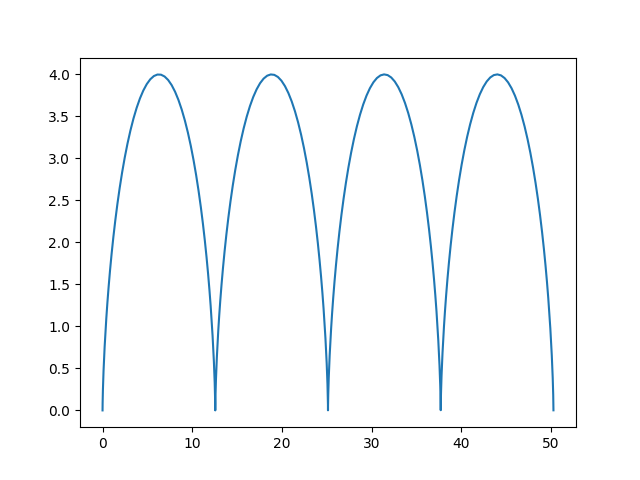
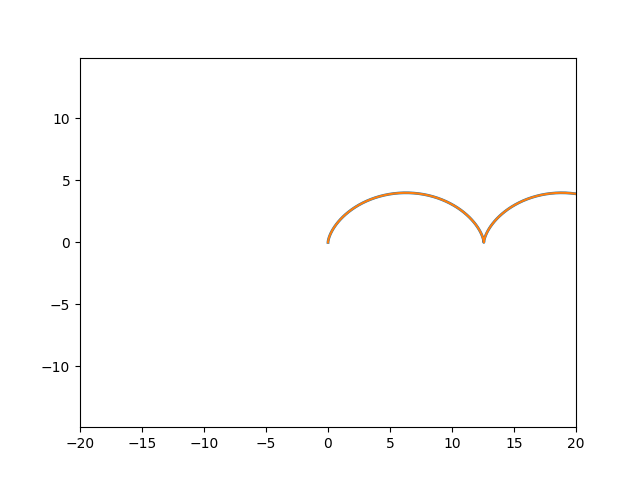
pip

diff --git a/lab_2_1.py b/lab_2_1.py
@@ -1,0 +1,40 @@
+import numpy as np
+import matplotlib.pyplot as plt
+from matplotlib.animation import FuncAnimation
+
+fig, ax = plt.subplots()
+
+rt, = plt.plot([], [], '-', lw=2)
+xdata, ydata = [], []
+ball, = plt.plot([], [], '-', color='r')
+
+edge = 50
+plt.axis('equal')
+ax.set_xlim(-edge, edge)
+ax.set_ylim(-edge, edge)
+
+def cicle(t):
+    R=2
+    xdata.append(R*(t-np.sin(t)))
+    ydata.append(R*(1-np.cos(t)))
+    return xdata, ydata
+
+
+ 
+def circle_move(R,vx0 ,time):
+    x0 = vx0 * time
+    alpha = np.arange(0, 2*np.pi, 0.1)
+    x = x0 + R*np.cos(alpha)
+    y = R + R*np.sin(alpha)
+    return x, y
+
+
+def animate(i):
+    ball.set_data(circle_move(R=2, vx0=2 , time=i))
+    rt.set_data(cicle(t=i))
+    
+ani = FuncAnimation(fig, animate, frames=np.arange(0, 8*np.pi, 0.1), interval=20) 
+
+ani.save('lpop.gif')
+
+

diff --git a/rtt.py b/rtt.py
@@ -1,0 +1,37 @@
+import numpy as np
+import matplotlib.pyplot as plt
+from matplotlib.animation import FuncAnimation
+
+fig, ax = plt.subplots()
+
+rt, = plt.plot([], [], '-', lw=2)
+xdata, ydata = [], []
+ball, = plt.plot([], [], '-', color='r')
+
+edge = 40
+plt.axis('equal')
+ax.set_xlim(-edge, edge)
+ax.set_ylim(-edge, edge)
+
+def astr(R,t):
+    xdata.append(R*np.cos(t)**3)
+    ydata.append(R*np.sin(t)**3)
+    return xdata, ydata
+
+
+def circle_move(R,t):
+    x0 = 16*np.cos(t)**3
+    y0 = 16*np.sin(t)**3
+    alpha = np.arange(0, 2*np.pi, 0.1)
+    x = x0 + R*np.cos(alpha)
+    y = y0+R*np.sin(alpha)
+    return x, y
+
+
+def animate(i):
+    ball.set_data(circle_move(R=4, t=i))
+    rt.set_data(astr(R=8, t=i))
+    
+ani = FuncAnimation(fig, animate, frames=np.arange(0, 2*np.pi, 0.1), interval=20) 
+
+ani.save('lpopr.gif')

diff --git a/xxr.py b/xxr.py
@@ -1,0 +1,36 @@
+import numpy as np
+import matplotlib.pyplot as plt
+from matplotlib.animation import FuncAnimation
+
+fig, ax = plt.subplots()
+
+rt, = plt.plot([], [], '-', lw=2)
+xdata, ydata = [], []
+
+ball, = plt.plot([], [], '-', color='r')
+
+edge = 40
+plt.axis('equal')
+ax.set_xlim(-edge, edge)
+ax.set_ylim(-edge, edge)
+
+def cicle(R, t):
+    x = R*(t-np.sin(t))
+    y = R*(1-np.cos(t))
+    plt.plot(x, y)
+cicle(R=2, t=np.arange(0, 8*np.pi, 0.1))
+ 
+def circle_move(R,y0 ,time):
+    x0 = R*(time-np.sin(time)) 
+    alpha = np.arange(0, 2*np.pi, 0.1)
+    x = x0 + R*np.cos(alpha)-2
+    y = y0+R*np.sin(alpha)
+    return x, y
+
+
+def animate(i):
+    ball.set_data(circle_move(R=2, y0=2 , time=i))
+    	
+ani = FuncAnimation(fig, animate, frames=np.arange(0, 8*np.pi, 0.1), interval=20)
+ 
+ani.save('lpo.gif')

diff --git a/rrr.py b/rrr.py
@@ -1,8 +1,31 @@
 import numpy as np
 import matplotlib.pyplot as plt
+from matplotlib.animation import FuncAnimation
 
-y = [450, 455, 460, 475]
-x = [0.035, 0.033, 0.03, 0.028 ]
+fig, ax = plt.subplots()
 
-plt.plot( x, y)
-plt.savefig('rr.png')
+rt, = plt.plot([], [], '-', lw=2)
+ball, = plt.plot([], [], '-', color='r')
+
+edge = 5
+plt.axis('equal')
+ax.set_xlim(-edge, edge)
+ax.set_ylim(-edge, edge)
+
+def cicle(R, t):
+    x = R*(t-np.sin(t))
+    y = R*(1-np.cos(t))
+    plt.plot(x, y)
+cicle(R=2, t=np.arange(0, 2*np.pi, 0.1))
+ 
+def circle_move(R, alpha):
+    x =  R*np.cos(alpha)
+    y = R*np.sin(alpha)
+    return x, y
+
+def animatet(i):
+    ball.set_data(circle_move(R=20, alpha=i))
+    	
+ani = FuncAnimation(fig, animatet, frames=np.arange(0, 4*np.pi, 0.1), interval=200)
+ 
+ani.save('lro.gif')

diff --git a/lab_4.py b/lab_4.py
@@ -4,16 +4,34 @@ from matplotlib.animation import FuncAnimation
 
 fig, ax = plt.subplots()
 
-anim_object, = plt.plot([], [], '-', lw=2)
+rr, = plt.plot([], [], '-', lw=2)
 xdata, ydata = [], []
 
+x0 = 0.1
+y0 = 0.1
+C = 0.3
+D = 0.33
+
+for i in range(30):
+    xdata.append(x0)
+    ydata.append(y0)
+
+    x1 = x0**2-y0+C
+    y1 = 2*x0*y0+D
+
+    x0 = x1
+    y0 = y1
+    
 
 
-def apdate(n, xy0, C, D ):
-    x = np.zeros((1, n))
-    y = np.zeros((1, n))
-    x[1,0] = 
-    y[1,0] = 
-    xdata.append(x)
-    ydata.append(y)
-    return xdata, ydata
+edge = 1
+plt.axis('equal')
+ax.set_xlim(-edge, edge)
+ax.set_ylim(-edge, edge)
+
+def animate(i):
+    rr.set_data(xdata[:i], ydata[:i])
+
+anim = FuncAnimation(fig, animate, frames=30, interval=100) 
+
+anim.save('lrr.gif')

diff --git a/lab_2_3.py b/lab_2_3.py
@@ -1,0 +1,27 @@
+import numpy as np
+import matplotlib.pyplot as plt
+from matplotlib.animation import FuncAnimation
+
+fig, ax = plt.subplots()
+star, = plt.plot([], [], '-', color='r')
+
+edge = 40
+plt.axis('equal')
+ax.set_xlim(-edge, edge)
+ax.set_ylim(-edge, edge)
+
+def star_move(t):
+    alpha = np.arange(-25, 25, 0.1)
+    x = 12*np.cos(alpha)+8*np.cos(1.5*alpha)
+    y = 12*np.sin(alpha)-8*np.sin(1.5*alpha)
+    
+    X = x*np.cos(t)+y*np.sin(t)
+    Y = y*np.cos(t)-x*np.sin(t)
+    return X, Y
+
+def animate(i):
+    star.set_data(star_move(t=i))
+    
+ani = FuncAnimation(fig, animate, frames=np.arange(0, 4*np.pi, 0.1), interval=20) 
+
+ani.save('lpoop.gif')

diff --git a/poop.py b/poop.py
@@ -1,0 +1,27 @@
+import numpy as np
+import matplotlib.pyplot as plt
+from matplotlib.animation import FuncAnimation
+
+fig, ax = plt.subplots()
+star, = plt.plot([], [], '-', color='r')
+
+edge = 40
+plt.axis('equal')
+ax.set_xlim(-edge, edge)
+ax.set_ylim(-edge, edge)
+
+def star_move(t):
+    alpha = np.arange(-25, 25, 0.1)
+    x = 12*np.cos(alpha)+8*np.cos(1.5*alpha)
+    y = 12*np.sin(alpha)-8*np.sin(1.5*alpha)
+
+    X = x*np.cos(t)+y*np.cos(t)
+    Y = y*np.cos(t)-x*np.cos(t)
+    return X, Y
+
+def animate(i):
+    star.set_data(star_move(t=i))
+    
+ani = FuncAnimation(fig, animate, frames=np.arange(0, 4*np.pi, 0.1), interval=20) 
+
+ani.save('poop.gif')

diff --git a/rrrr.py b/rrrr.py
@@ -1,0 +1,25 @@
+import numpy as np
+import matplotlib.pyplot as plt
+from matplotlib.animation import FuncAnimation
+
+fig, ax = plt.subplots()
+
+rt, = plt.plot([], [], '-', lw=2)
+xdata, ydata = [], []
+
+edge = 40
+plt.axis('equal')
+ax.set_xlim(-edge, edge)
+ax.set_ylim(-edge, edge)
+
+
+def cicle(t):
+    R=2
+    xdata.append(R*(t-np.sin(t)))
+    ydata.append(R*(1-np.cos(t)))
+    rt.set_data(xdata, ydata)
+    return rt
+
+ani = FuncAnimation(fig, cicle, frames=np.arange(0, 8*np.pi, 0.1), interval=20) 
+
+ani.save('lop.gif') 

diff --git a/lab_1.py b/lab_1.py
@@ -2,7 +2,7 @@ import numpy as np
 import matplotlib.pyplot as plt
  
 
-def cicle(R=2, t1=0, t2=8*np.pi):
+def cicle(R=2, t1=0, t2=2*np.pi):
     t = np.arange(t1, t2, 0.1)
     x = R*(t-np.sin(t))
     y = R*(1-np.cos(t))
